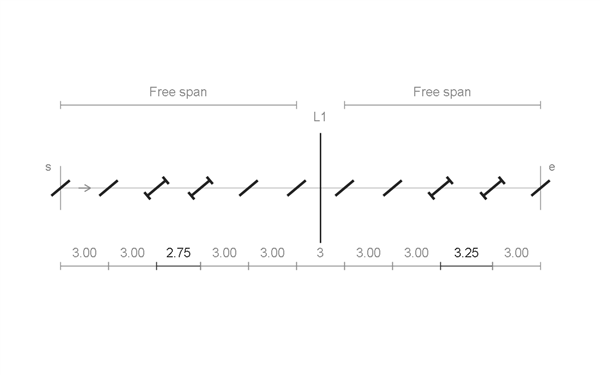
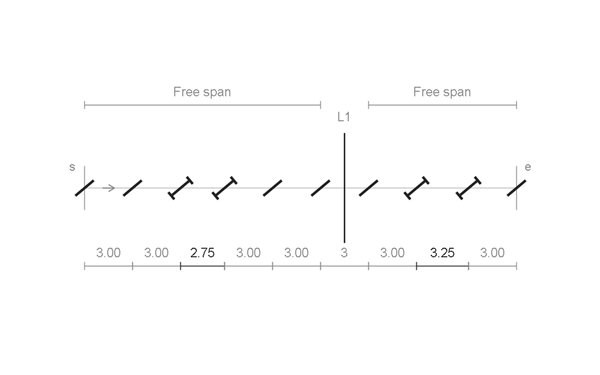
Shorten landmark example so both adjustments are exactly centred

diff --git a/examples/illustrated/README.md b/examples/illustrated/README.md
@@ -40,7 +40,7 @@ A slit follows the local tangent without changing length or lean. Pitch is a dir
 
 ### Reserve a landmark pair: A4, A5, A7
 
-Reserve the endpoints and nominal pair across L1. Distribute the adjustments into the free spans while those four openings stay fixed: $2.75\,\mathrm{mm}$ on the left, $3.25\,\mathrm{mm}$ on the right. Every gap stays within the $2.7$ to $3.3\,\mathrm{mm}$ bounds; the landmark gap remains $3\,\mathrm{mm}$. There is no opening at L1. `F02`.
+Reserve the endpoints and nominal pair across L1. Distribute the adjustments into the free spans while those four openings stay fixed: $2.75\,\mathrm{mm}$ on the left, $3.25\,\mathrm{mm}$ on the right. Each adjusted gap sits exactly at its span's centre. Every gap stays within the $2.7$ to $3.3\,\mathrm{mm}$ bounds; the landmark gap remains $3\,\mathrm{mm}$. There is no opening at L1. `ILL-LANDMARK` uses `F02` shortened by one pitch at the right end, to $27\,\mathrm{mm}$.
 
 ![Adjustments move into the free spans while endpoints and the landmark pair stay fixed](assets/axiom-landmark.gif)
 
@@ -108,7 +108,7 @@ The [glossary](../../docs/GLOSSARY.md) uses four static figures with aligned lab
 
 ![Guide, gaps, landmark and free span](assets/terms-layout.png)
 
-`ILL-TERMS-LAYOUT`: the same `F02` layout as the landmark example, with nominal, adjusted and protected gaps identified.
+`ILL-TERMS-LAYOUT`: the full `F02` layout, with nominal, adjusted and protected gaps identified.
 
 ![Slit axis, length, width, lean and tangent](assets/terms-slit.png)
 
